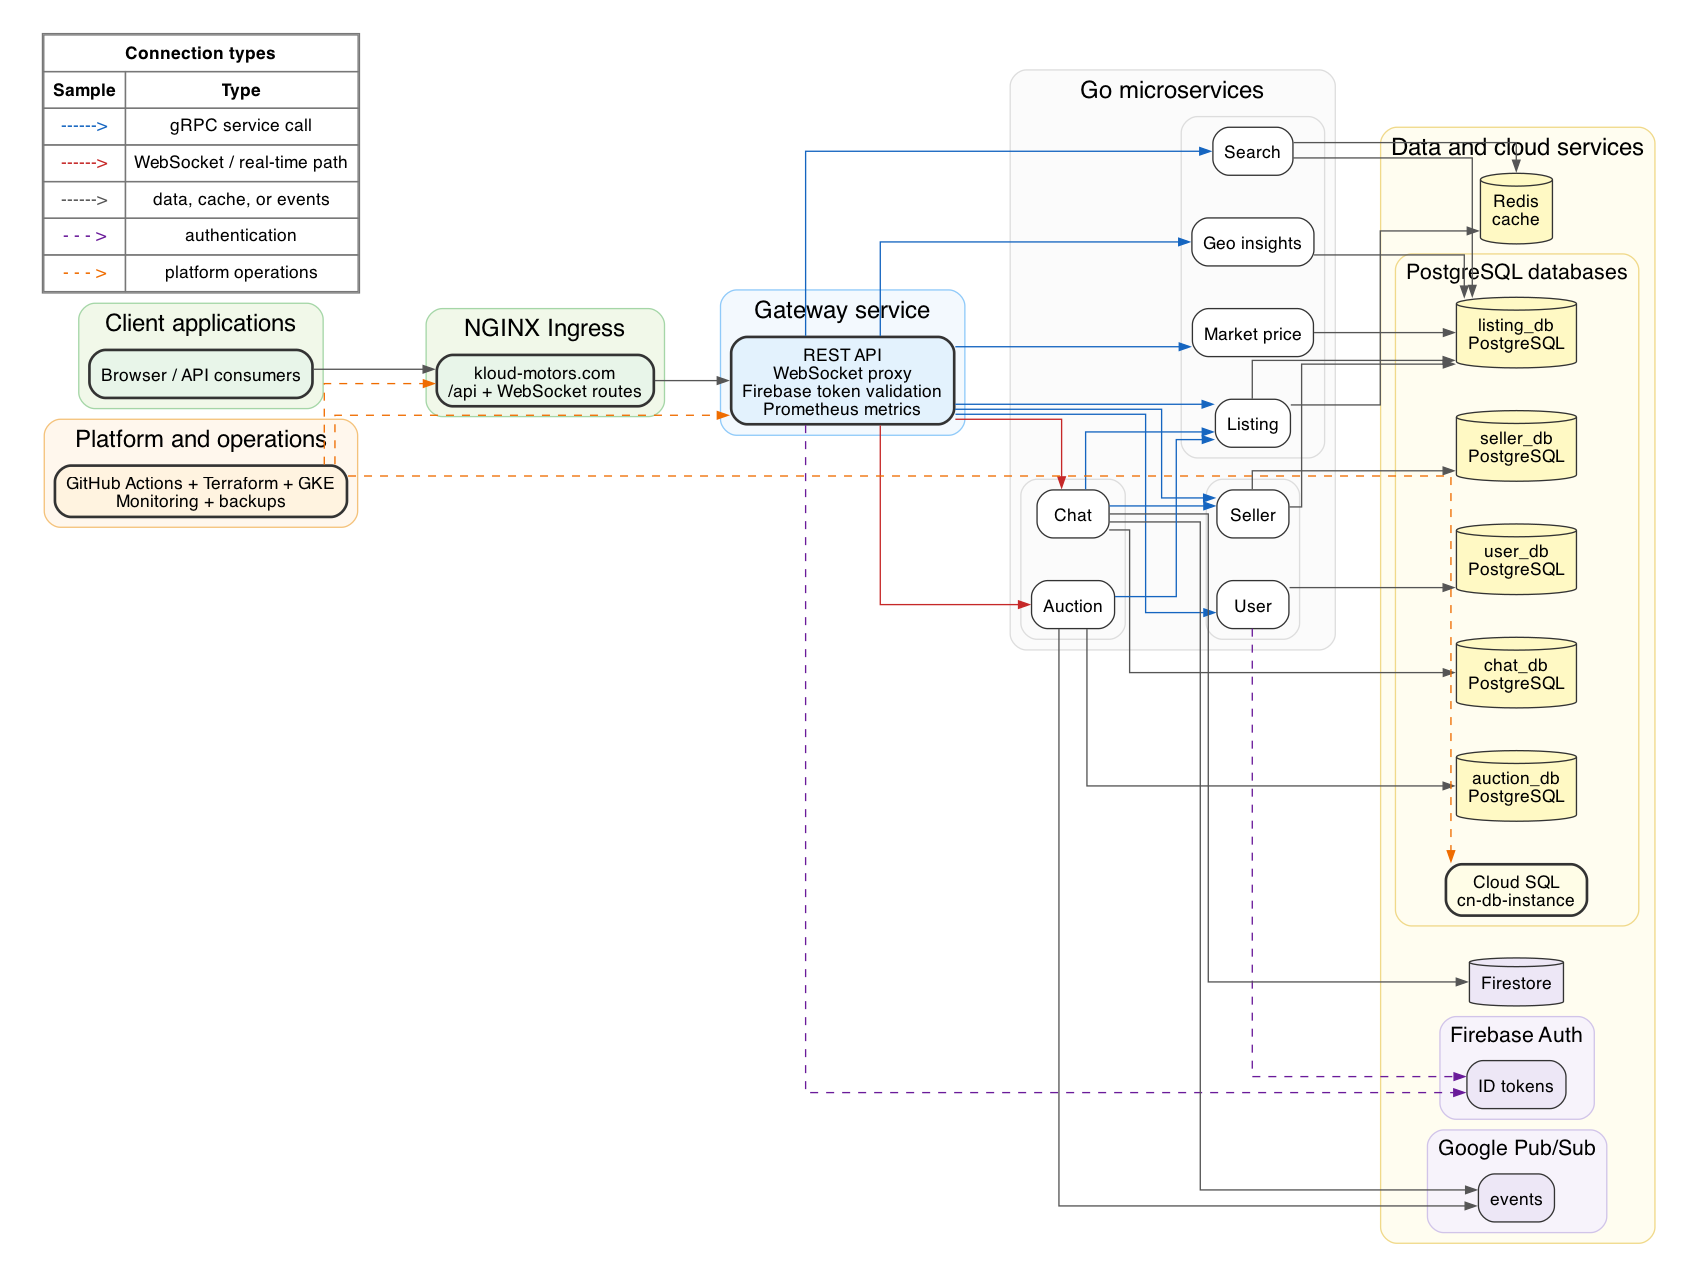
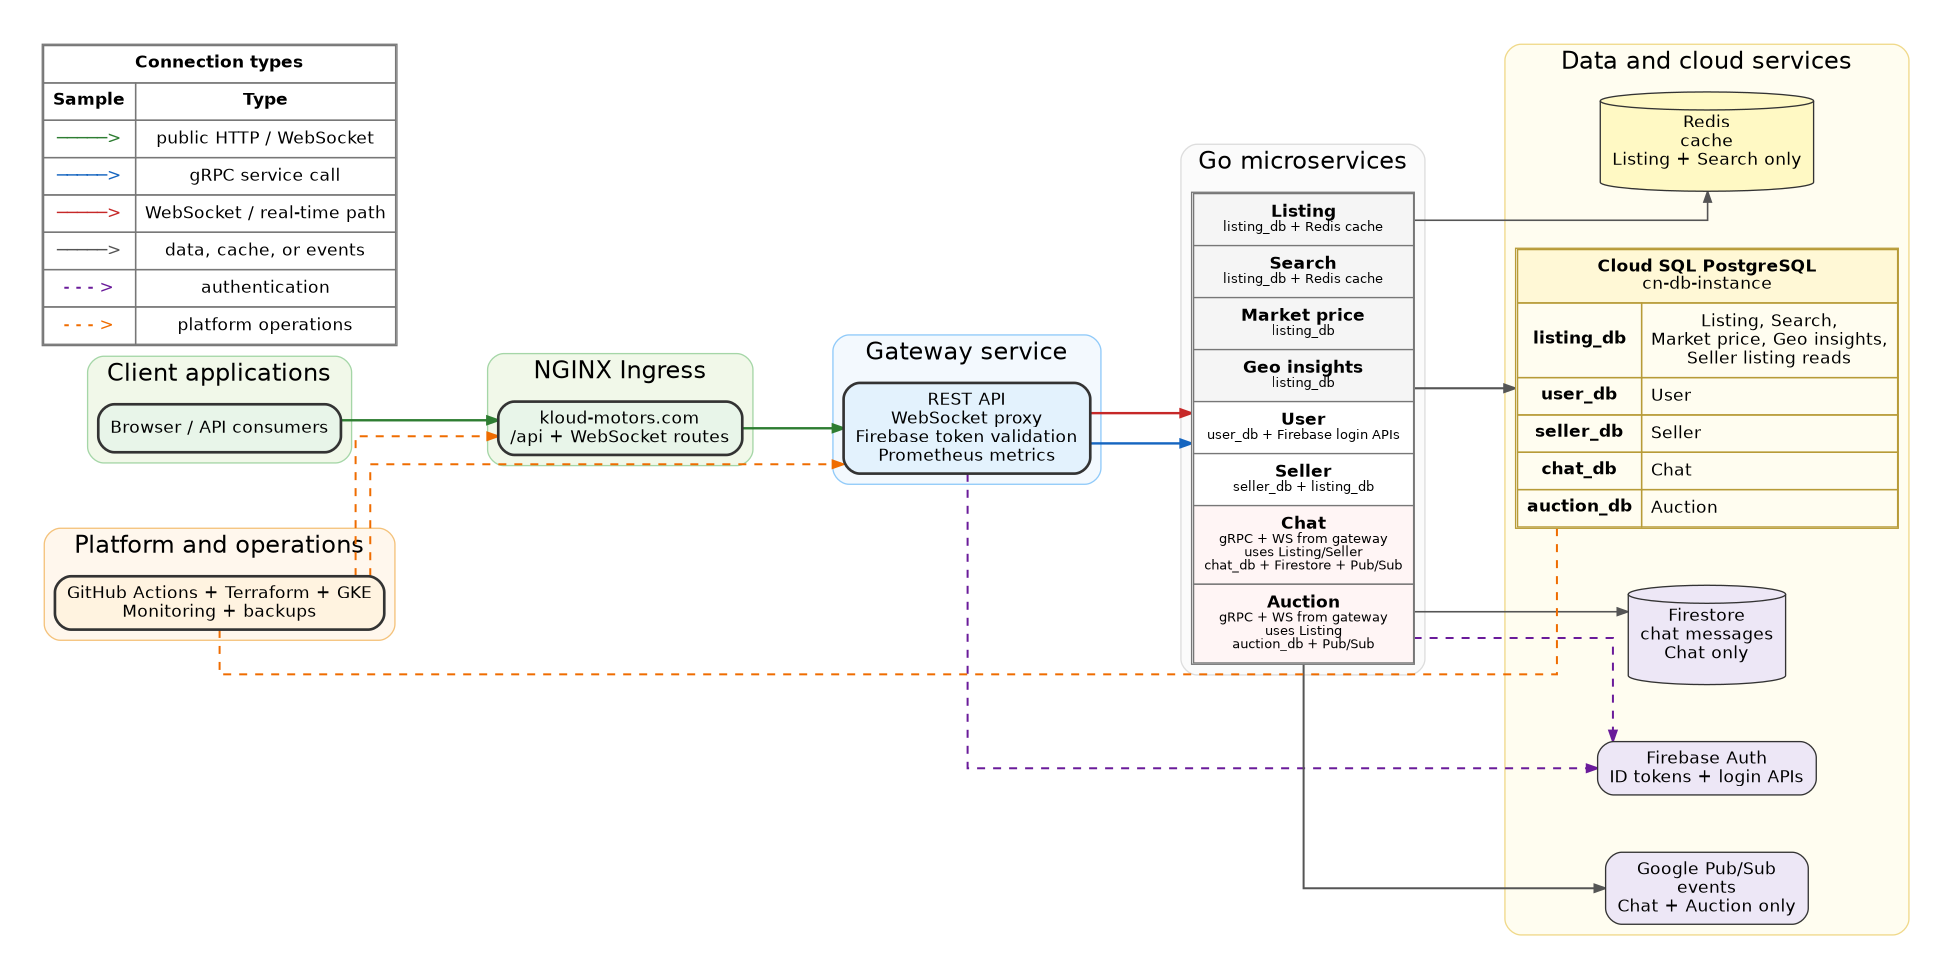
Modified architecture diagram

diff --git a/docs/report/architecture/caparchitecture.tex b/docs/report/architecture/caparchitecture.tex
@@ -20,7 +20,7 @@ The main application services are:
     \item \textbf{Auction service}: manages auction listing, creation, detail retrieval, deletion, bidding, bid retrieval, and live auction updates.
 \end{itemize}
 
-The application data is separated by concern. The listing database is shared by read heavy marketplace services because listing, search, market price, and geographical insights all operate over the same vehicle data. User, seller, chat, and auction state are stored in separate PostgreSQL databases. Chat also uses Firestore for message persistence when configured. Redis is used as a cache aside layer for listing detail, listing summary, and search query results. Google Pub/Sub is used by chat and auction services to distribute real-time WebSocket events across replicas.
+The application data is separated by concern. The listing database is shared by read heavy marketplace services because listing, search, market price, geographical insights, and seller listing previews all operate over the same vehicle data. User, seller, chat, and auction state are stored in separate PostgreSQL databases. Chat also uses Firestore for message persistence when configured. Redis is used as a cache aside layer for listing detail, listing summary, and search query results. Google Pub/Sub is used by chat and auction services to distribute real-time WebSocket events across replicas.
 
 \section{Technical Architecture}
 
@@ -44,9 +44,11 @@ service:50051}. WebSocket upstreams are configured separately as \texttt{ws://ch
 
 Figure~\ref{fig:architecture} summarises the connection between the client, gateway, services, data stores, messaging infrastructure, observability stack, deployment automation, and cloud infrastructure.
 
-\begin{figure}[p]
+\begin{landscape}
+\begin{figure}[H]
     \centering
-    \includegraphics[angle=90,width=\textwidth,height=0.78\textheight,keepaspectratio]{architecture/images/architecture.png}
+    \includegraphics[width=\linewidth,height=0.86\textheight,keepaspectratio]{architecture/images/architecture.png}
     \caption{Kloud Motors application and technical architecture}
     \label{fig:architecture}
 \end{figure}
+\end{landscape}

diff --git a/docs/report/report.tex b/docs/report/report.tex
@@ -7,6 +7,7 @@
 \usepackage[english]{babel}
 \usepackage{amsmath}  
 \usepackage{graphicx}
+\usepackage{pdflscape}
 \usepackage{url}
 \usepackage[Algoritmo]{algorithm}
 \usepackage{algorithmicx}